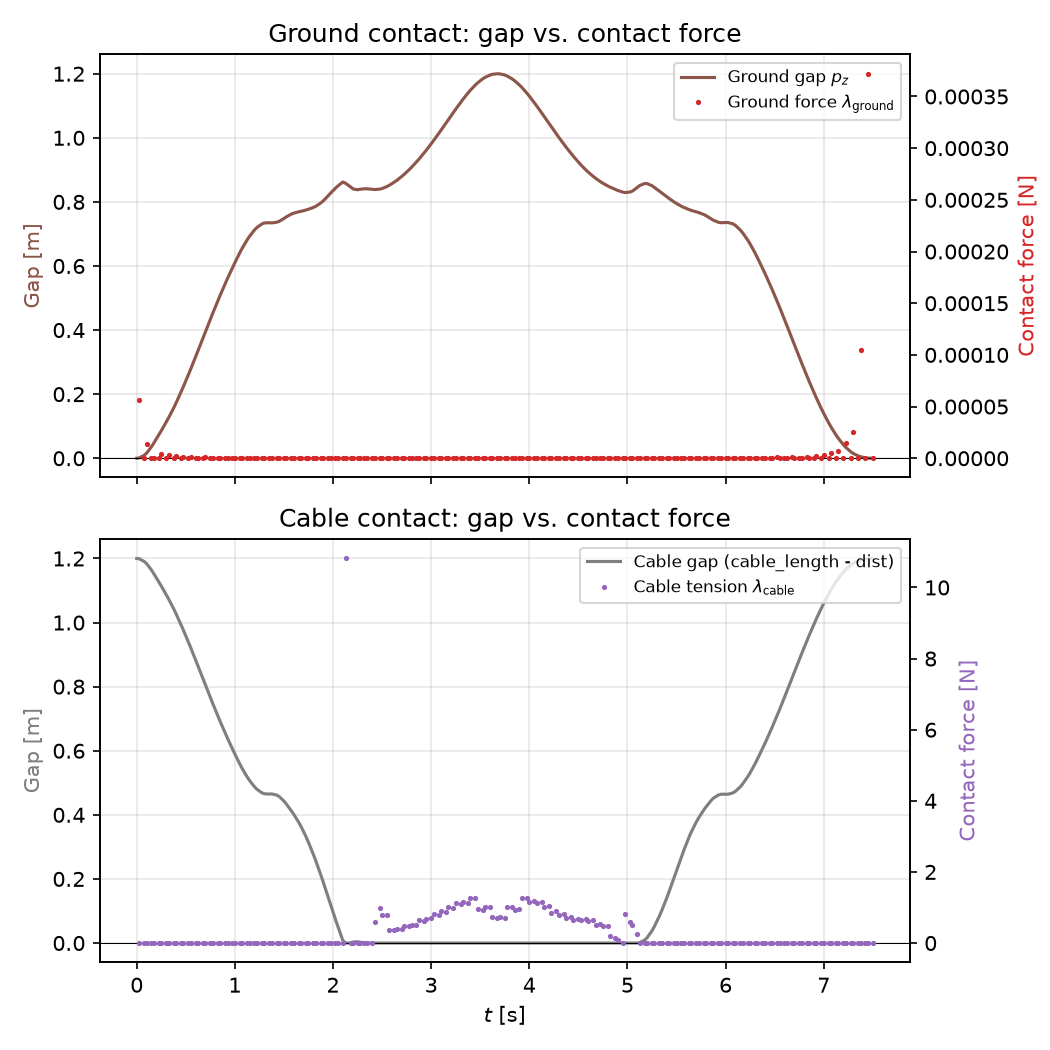
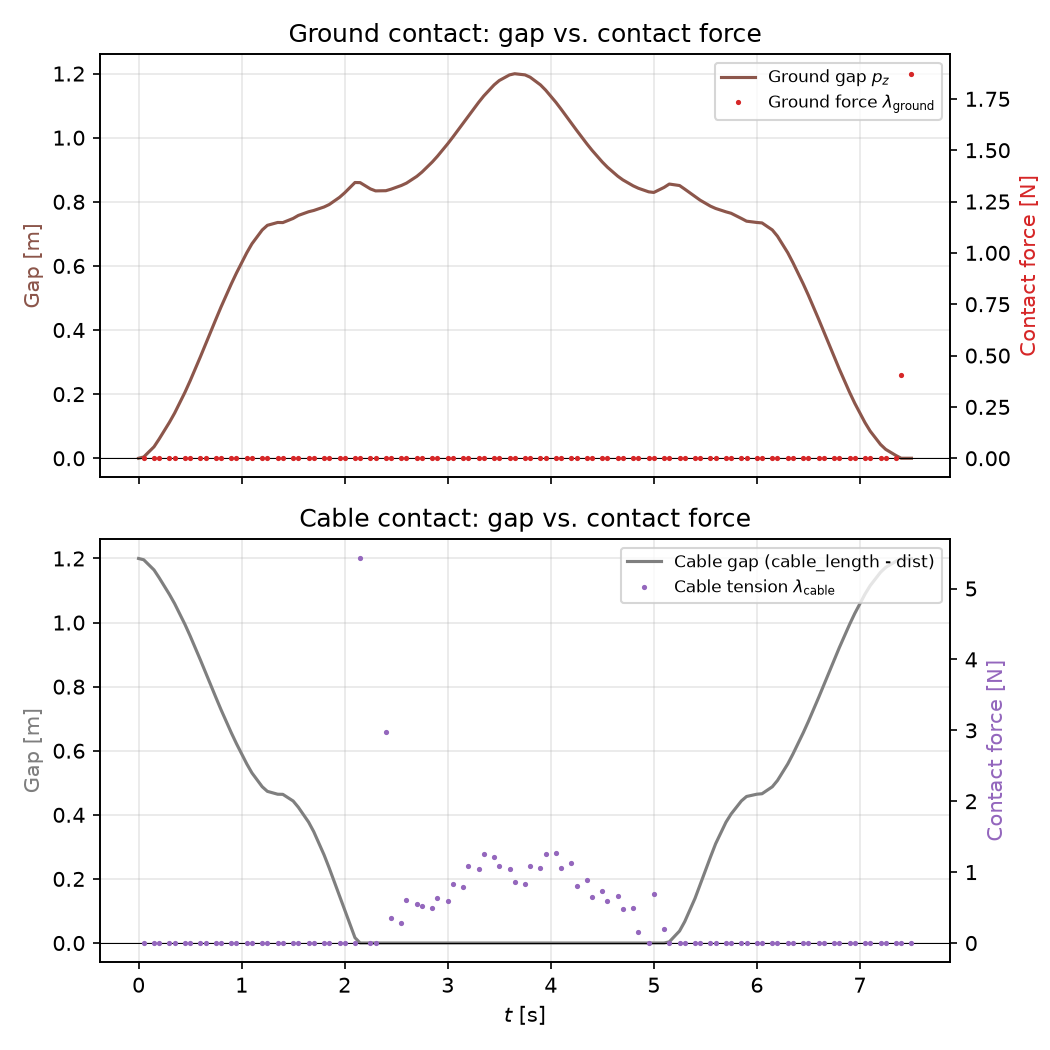
insignificant changes

diff --git a/christie_examples/drone_ground/drone_cable_ocp.py b/christie_examples/drone_ground/drone_cable_ocp.py
@@ -1,12 +1,6 @@
 """
 Build and solve the tethered-drone reference-tracking OCP with `nosnoc`.
 
-This replaces the original hand-rolled pipeline (`ocpDG.py`'s `solve_open_loop_ocp` +
-`_solve_with_complementarity_continuation`, built on a manually assembled IPOPT NLP with a
-hand-written complementarity-slackness continuation loop) with `nosnoc.OcpSolver`, which builds
-the same kind of direct-transcription MPCC from the `Cls` model and solves it with `nosnoc`'s own
-homotopy continuation (`RegHomotopyOptions`).
-
 Run this file directly to solve the OCP and print a summary of the result.
 """
 import os
@@ -25,15 +19,16 @@ from drone_cable_model import build_drone_cable_model, build_reference_trajector
 
 def get_nosnoc_options(ocp_cfg: DroneCableOCPConfig):
     return nosnoc.Options(
-        N_stages=ocp_cfg.N_stages,
-        N_finite_elements=ocp_cfg.N_finite_elements,
-        n_s=ocp_cfg.n_s,
+        T=ocp_cfg.N_stages * ocp_cfg.sampling_time,     # total time horizon (could give h instead)
+        N_stages=ocp_cfg.N_stages,                      # Nb of control intervals
+        N_finite_elements=ocp_cfg.N_finite_elements,    # substeps per control interval for contact resolution
+        n_s=ocp_cfg.n_s,                                # Runge-Kutta stages within each finite element
         rk_scheme=nosnoc.RKScheme.RADAU_IIA,
-        T=ocp_cfg.N_stages * ocp_cfg.sampling_time,
-        use_fesd=True,
+        # FESD is the adaptive step-size machinery
+        use_fesd=True,                                  # Finite elements length become decision variables 
+        step_equilibration=nosnoc.StepEquilibrationMode.HEURISTIC_MEAN,                       
         cls_discretization=nosnoc.ClsDiscretization.FESD_J,
-        cross_comp_mode=nosnoc.CrossComplementarityMode.FE_STAGE,
-        step_equilibration=nosnoc.StepEquilibrationMode.HEURISTIC_MEAN,
+        cross_comp_mode=nosnoc.CrossComplementarityMode.FE_STAGE,   # Should try FE_FE because lighter, but less precise
         # The drone starts exactly on the ground (p_z = 0), so the initial state already sits at
         # the ground contact boundary. There is no impact "before time zero" to resolve there.
         no_initial_impacts=True,
@@ -65,14 +60,14 @@ def solve_drone_cable_ocp(cfg: DroneCableConfig = None, ocp_cfg: DroneCableOCPCo
 
     # Reference trajectory: one row per grid point (N_stages + 1 rows). Stage k (1..N_stages) is
     # tracked against row k (row 0 is the fixed initial state), and the terminal cost tracks the
-    # very last row. Built before the model so its last row can be baked into `f_q_T` as a
-    # numeric constant, see the "Note on the terminal reference" in `drone_cable_model.py`.
+    # very last row.
     x_ref_full = build_reference_trajectory(
         ocp_cfg.N_stages, cfg.nx,
         ellipse_center_z=ocp_cfg.ellipse_center_z, ellipse_a=ocp_cfg.ellipse_a,
         ellipse_b=ocp_cfg.ellipse_b, climb_frac=ocp_cfg.climb_frac, land_frac=ocp_cfg.land_frac,
     )
 
+    # returns a nosnoc.model.Cls
     model = build_drone_cable_model(cfg, ocp_cfg, x_ref_T_val=x_ref_full[-1, :])
 
     opts = get_nosnoc_options(ocp_cfg)

diff --git a/christie_examples/drone_ground/drone_cable_model.py b/christie_examples/drone_ground/drone_cable_model.py
@@ -105,12 +105,11 @@ class DroneCableOCPConfig:
     homotopy_update_slope: float = 0.2
     N_homotopy: int = 12
     complementarity_tol: float = 1e-6
-    print_level: int = 0
+    print_level: int = 3
 
 def build_drone_cable_model(cfg: DroneCableConfig, ocp_cfg: DroneCableOCPConfig, x_ref_T_val: np.ndarray):
     """
-    Build Planar "drone tethered to the ground by a cable" as a `nosnoc.model.Cls`,
-    wired up for the reference-tracking OCP.
+    Build Planar "drone tethered to the ground by a cable" as a `nosnoc.model.Cls`
     
     Physics:
         state   x = (q, v),  q = (p_x, p_z, pitch),  v = (v_x, v_z, v_pitch)   [n_q = n_v = 3]
@@ -160,15 +159,14 @@ def build_drone_cable_model(cfg: DroneCableConfig, ocp_cfg: DroneCableOCPConfig,
     x_ref = ca.SX.sym("x_ref", nx)
 
     # NOTE: the cost only tracks the position/pitch reference `q` (Q, Q_terminal are 3x3);
-    # velocity is not penalized directly, only regularized indirectly
-    # through the control-effort term below.
+    # velocity is not penalized directly, only regularized indirectly through the control-effort term below.
     u_hover = 0.5 * cfg.mass * cfg.gravity * ca.DM.ones(nu)  # hover thrust, split across rotors
     f_q = (q - x_ref).T @ ocp_cfg.Q @ (q - x_ref) + (u - u_hover).T @ ocp_cfg.R @ (u - u_hover)
     # Terminal reference is a numeric constant, see the module docstring.
     f_q_T = (q - ca.DM(x_ref_T_val)).T @ ocp_cfg.Q_terminal @ (q - ca.DM(x_ref_T_val))
 
     # ------------------------------------------------------------------ bounds / initial state
-    lbu = np.zeros(nu)
+    lbu = np.full(nu, -ocp_cfg.max_thrust)
     ubu = np.full(nu, ocp_cfg.max_thrust)
     x0 = np.concatenate([ocp_cfg.x_init, ocp_cfg.v_init])
 
